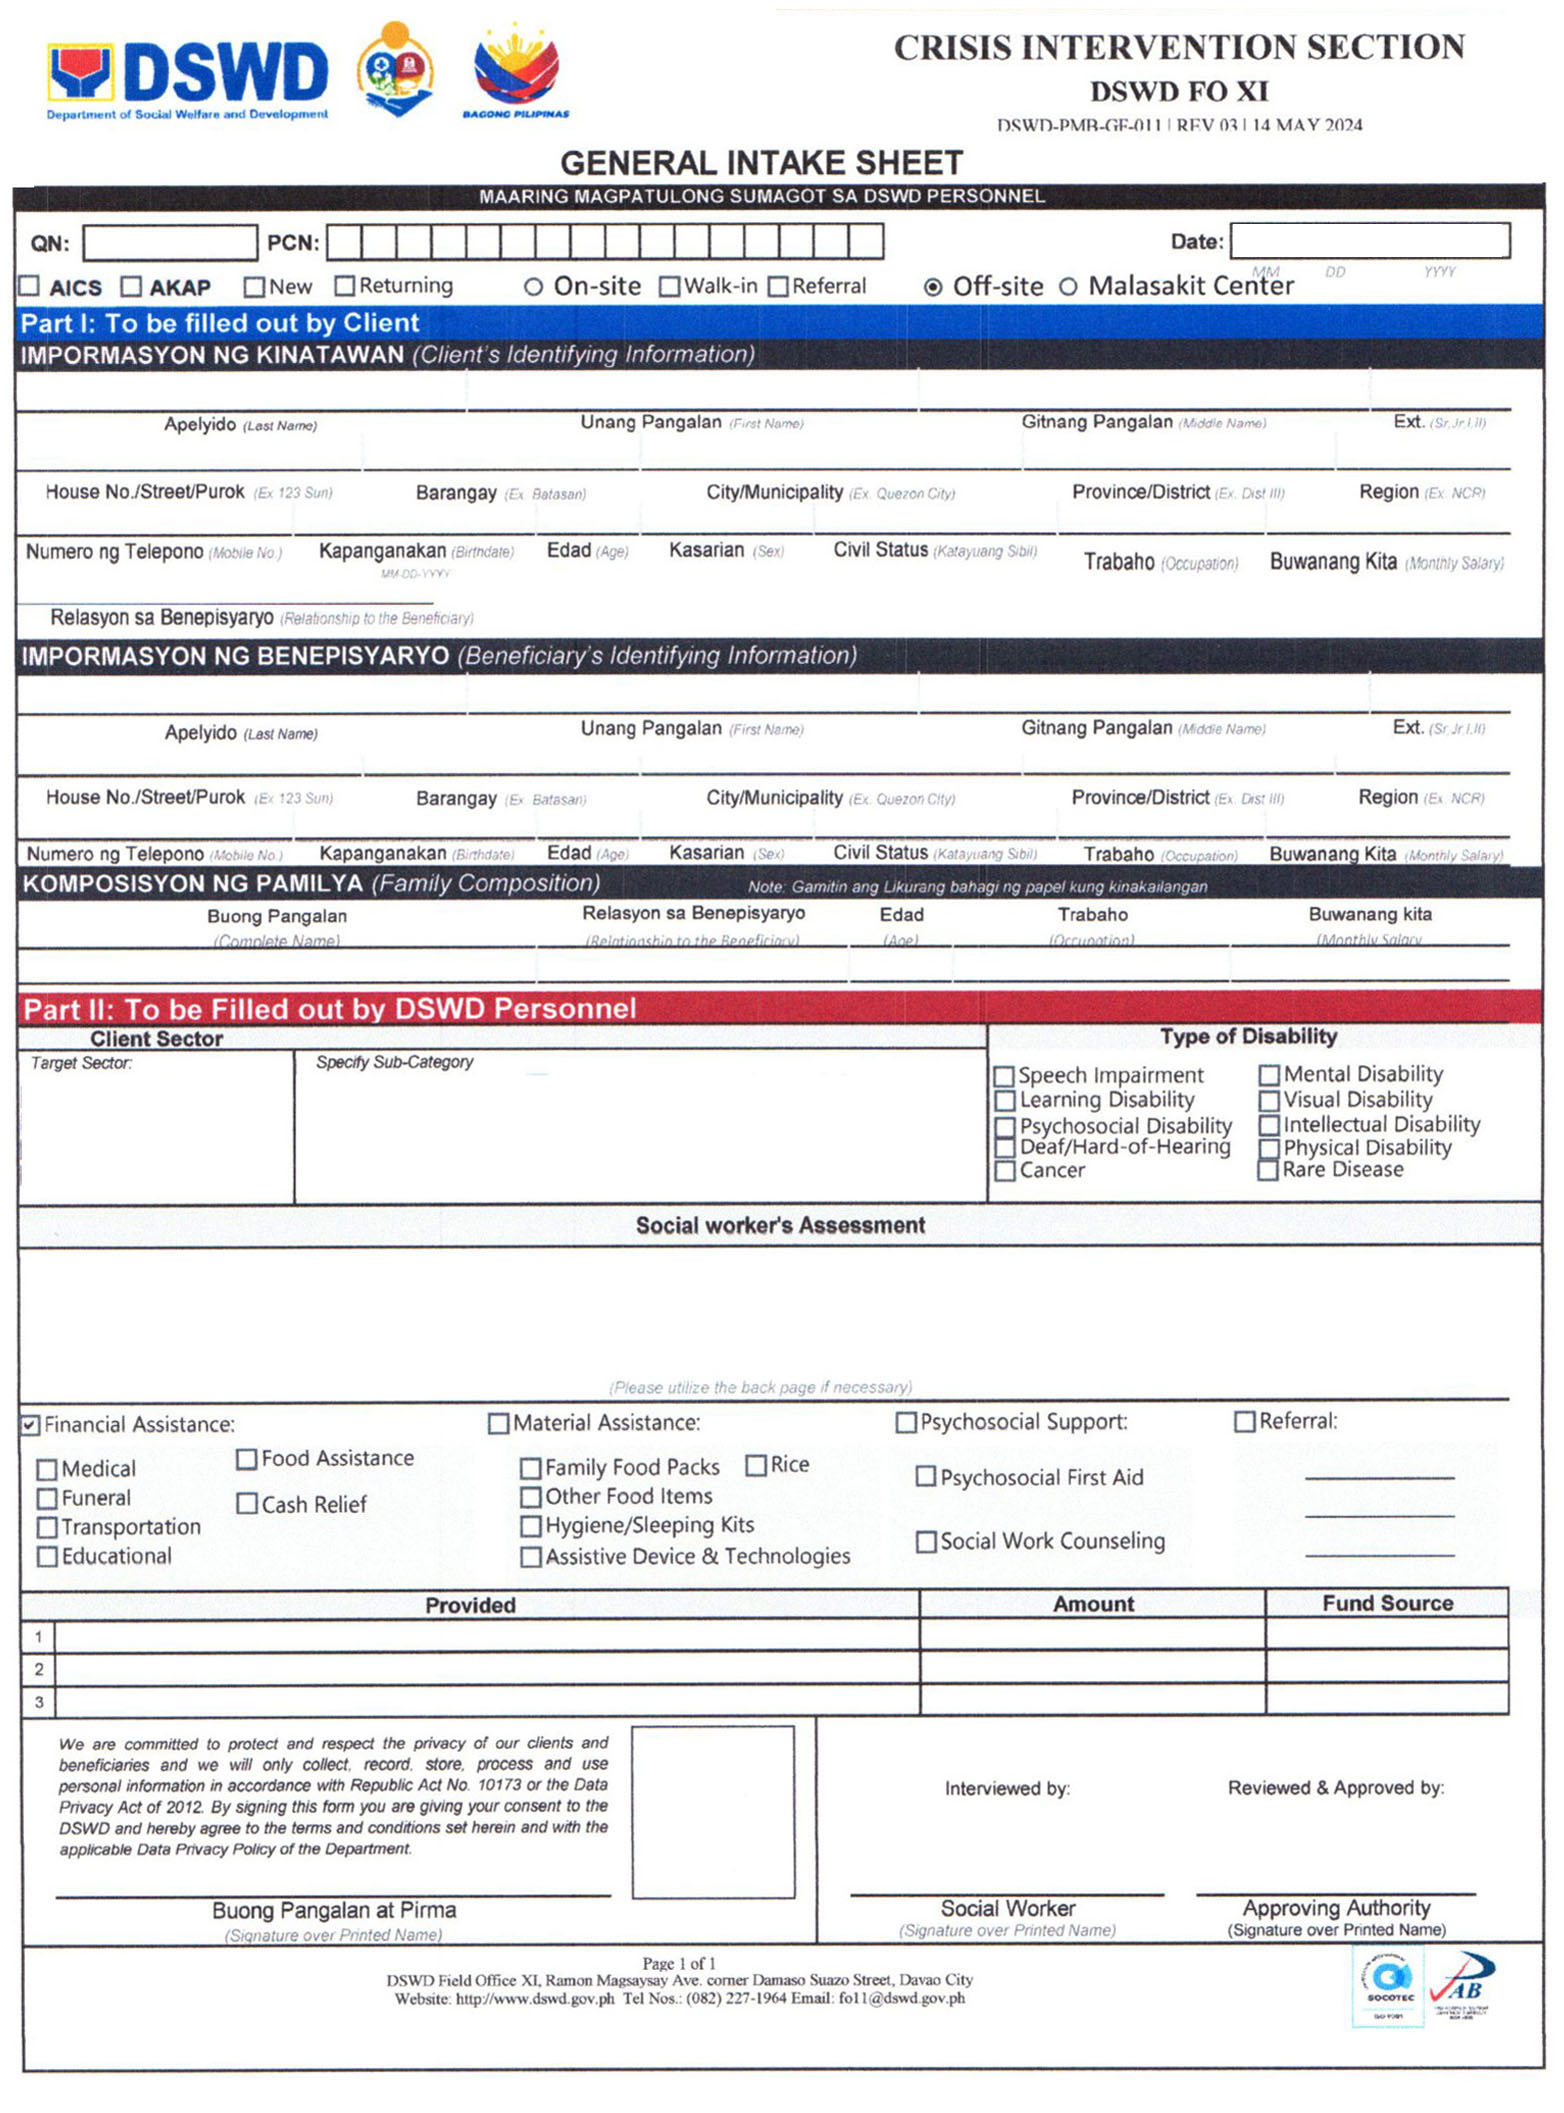
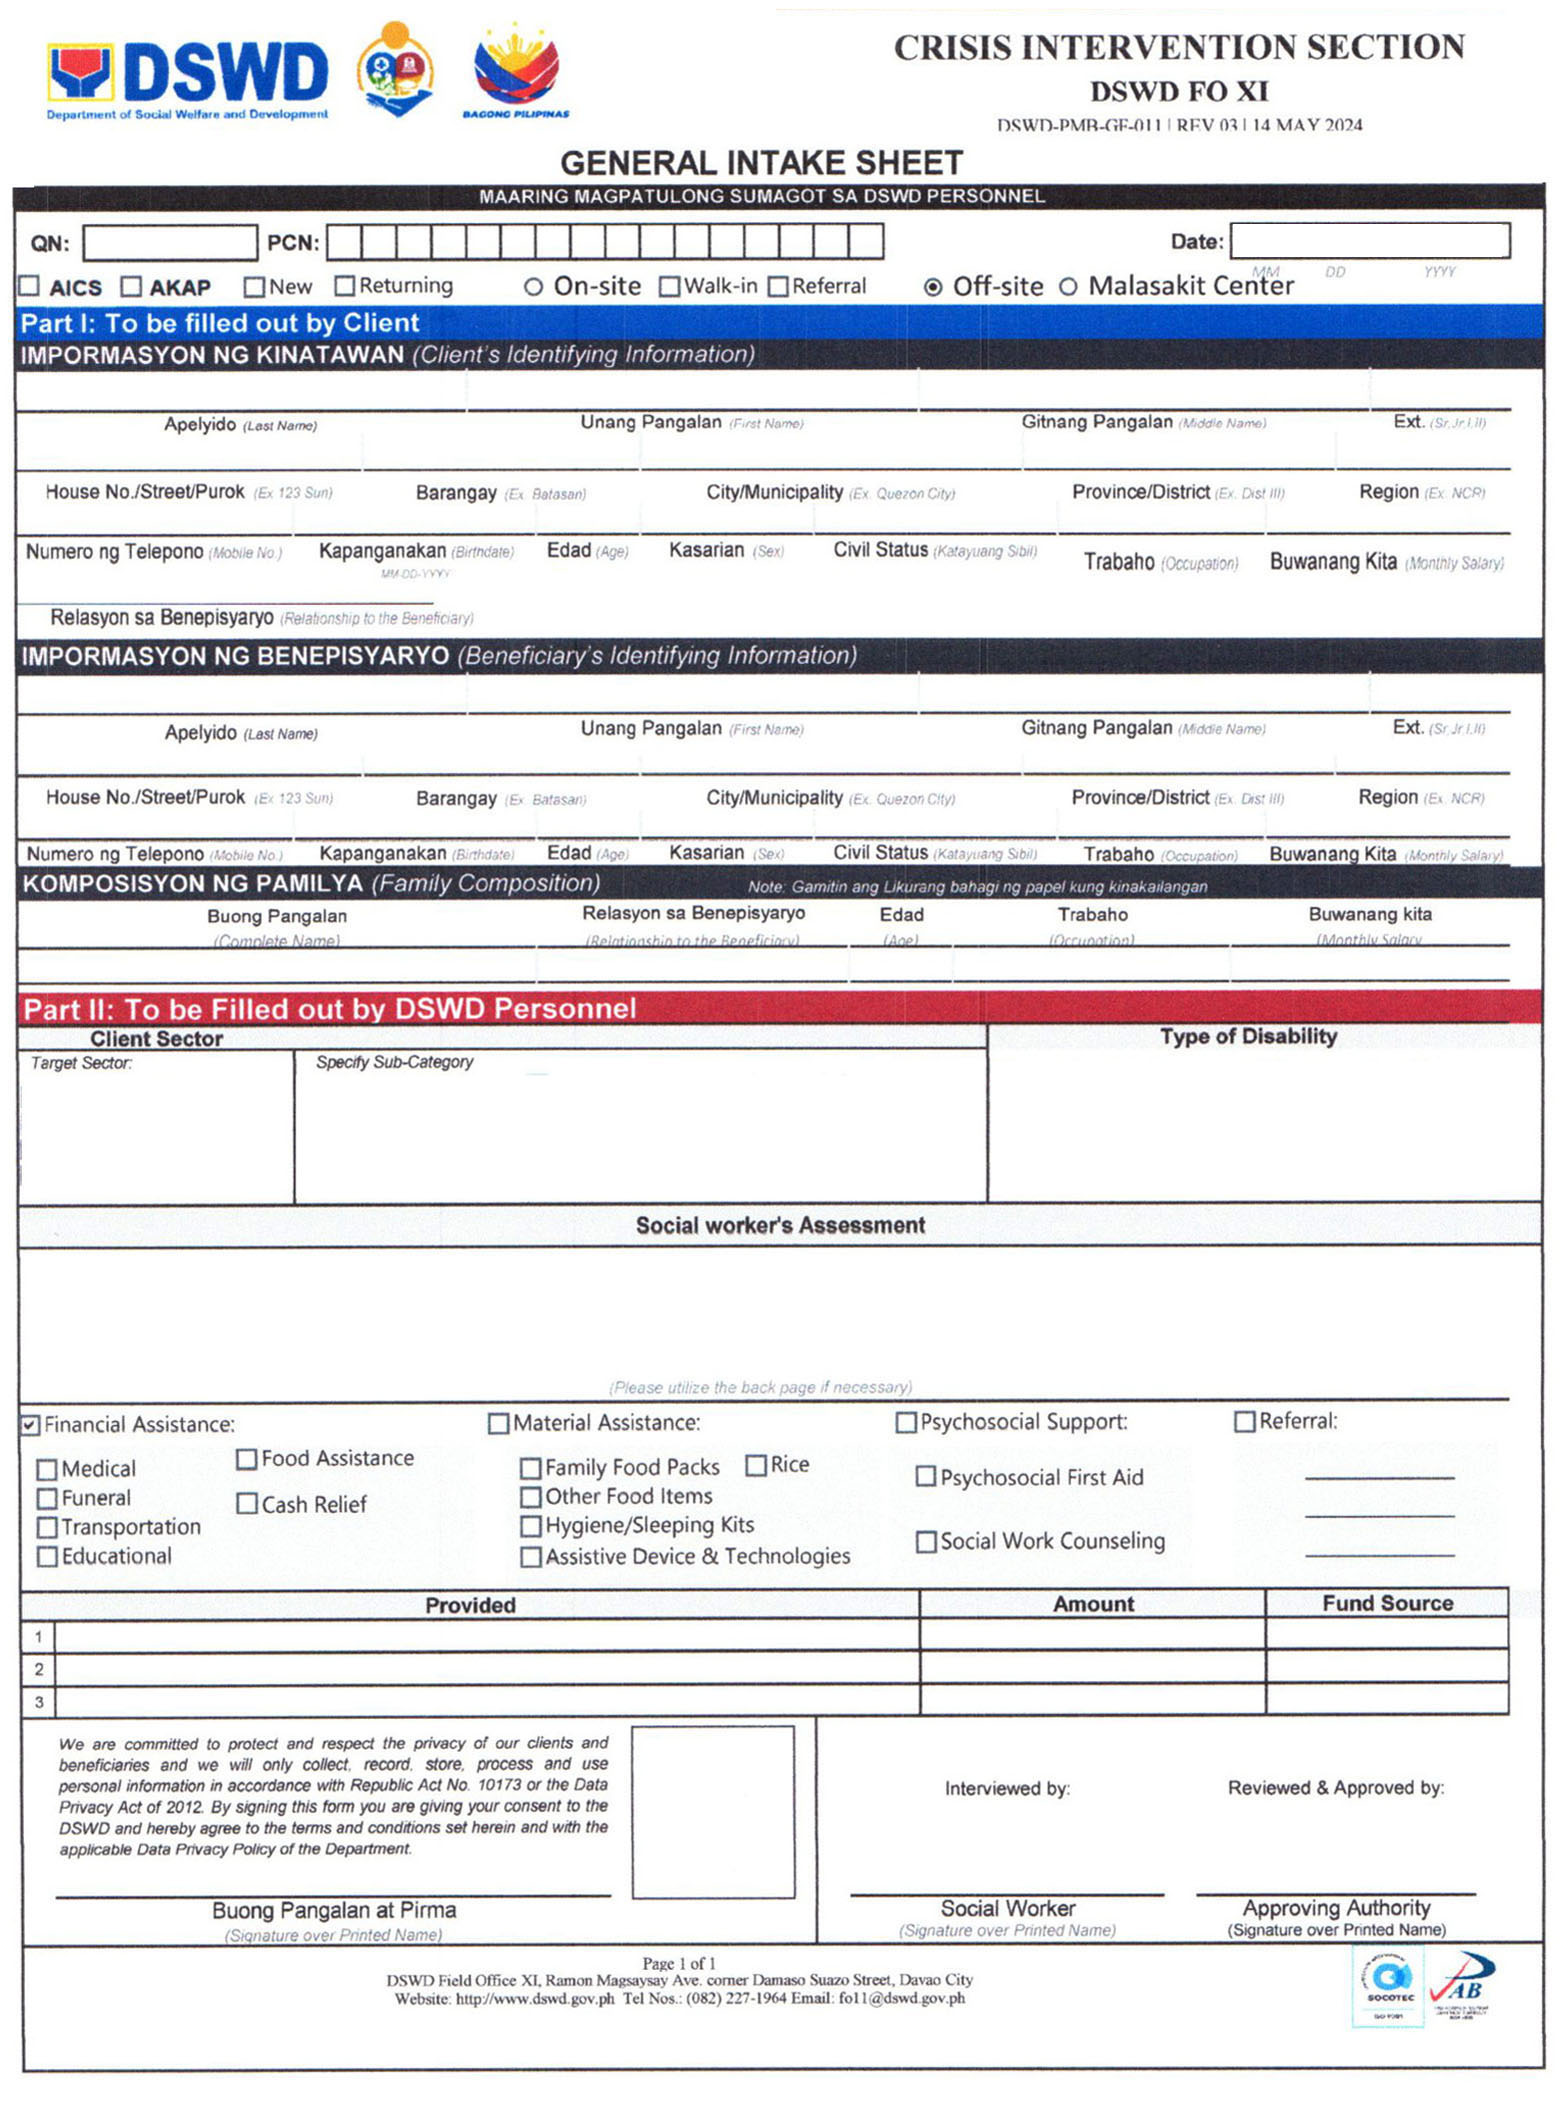
updated gis with disabilities

Changed region(s): [[0.6138, 0.4998, 0.9514, 0.5622]]

diff --git a/app/Http/Controllers/PayrollClientController.php b/app/Http/Controllers/PayrollClientController.php
@@ -5,6 +5,7 @@ namespace App\Http\Controllers;
 use App\Models\AicsClient;
 use App\Models\AicsType;
 use App\Models\Category;
+use App\Models\Disabilites;
 use App\Models\Payroll;
 use App\Models\PayrollClient;
 use App\Models\Subcategory;
@@ -109,6 +110,8 @@ class PayrollClientController extends Controller
         $aics_client_ids = PayrollClient::where('payroll_id', $id)->withTrashed()->offset(($page - 1) * 10)->limit(10)->pluck('aics_client_id');
         $payroll = Payroll::with("aics_type", "aics_subtype")->findOrFail($id);
         $categories  = Category::all()->pluck("category");
+        $disabilities = Disabilites::all()->pluck("disability");
+    
         $subcategories  = Subcategory::orderByRaw("
         CASE 
         WHEN subcategory = 'Minimum Wage Earner' THEN 1 
@@ -129,6 +132,7 @@ class PayrollClientController extends Controller
             return $x[0];
         });
 
+       
         $clients =  AicsClient::withTrashed()->with([
             "psgc",
             "aics_type",
@@ -143,6 +147,8 @@ class PayrollClientController extends Controller
                 $join->on("aics_clients.id", "=", "payroll_clients.aics_client_id")->where('payroll_id', $id);
             })
             ->get();
+
+       
 
         if ($clients) {
 
@@ -159,6 +165,8 @@ class PayrollClientController extends Controller
                     "subcategories" =>  compact('shortSubcategories', 'longSubcategories'),
                     "assistance_options" => $assistance_options,
                     "assistance_type_subcategory" => $payroll->aics_subtype ? $payroll->aics_subtype->name : "Daily Consumption and Other Needs",
+                    "disabilities"=>  $disabilities,
+    
                 ]
             );
 

diff --git a/resources/views/pdf/gis_many.blade.php b/resources/views/pdf/gis_many.blade.php
@@ -29,7 +29,7 @@
             line-height: 0.8;
             color: black;
             text-transform: uppercase;
-            /* border: solid red 1px;*/
+        
         }
 
 
@@ -194,20 +194,20 @@
 
 
             </div>
-            <!--foreach ($subcategories as $index_sub => $subcategory)
-                <div style="display:inline-block; margin-top:-3pt; width:75pt; ">
-                    <input type="checkbox" name="" id="" class="custom-checkbox"
-                        if (isset($aics_beneficiary['subcategory'])) if ($subcategory == $aics_beneficiary['subcategory']['subcategory'])
-                     checked endif
-                        endif>
-                     $subcategory }}
-                    if ($subcategory == 'Others')
-                        if ($aics_beneficiary['subcategory_others'])
-                            :  $aics_beneficiary['subcategory_others'] }}
-                        endif
-                    endif
-                </div>
-            endforeach-->
+            
+        </div>
+
+        <div class="data-textbox"  style=" width:200pt; top:370pt; left:360pt;  text-align:left; height:80pt;  font-size:7pt; font-weight:normal; text-transform:none; ">
+           
+            @foreach ($disabilities as $disability)
+            <div style="display:inline-block; margin-top:-2pt; width:120px;">
+                <input type="checkbox" name="" id="" class="custom-checkbox"
+                    @if (isset($aics_beneficiary['disabilities'])) @if (in_array($disability, json_decode($aics_beneficiary["disabilities"]) )) checked @endif @endif>
+                {{ $disability }}
+            </div>
+        @endforeach
+
+
         </div>
 
 

diff --git a/app/Http/Controllers/AicsClientController.php b/app/Http/Controllers/AicsClientController.php
@@ -19,6 +19,7 @@ use Maatwebsite\Excel\Facades\Excel;
 use Illuminate\Support\Facades\Storage;
 use Illuminate\Support\Str;
 use App\Models\DirtyList;
+use App\Models\Disabilites;
 use App\Models\Subcategory;
 use Barryvdh\DomPDF\Facade\Pdf;
 use Illuminate\Support\Facades\Auth;
@@ -286,6 +287,9 @@ class AicsClientController extends Controller
             return $x[0];
         });
 
+        $disabilities = Disabilites::all()->pluck("disability");
+    
+
         if ($client) {
             $pdf = Pdf::loadView('pdf.gis_many', [
                 "aics_beneficiaries" =>  $client->toArray(),
@@ -295,7 +299,8 @@ class AicsClientController extends Controller
                 "subcategories" =>  compact('shortSubcategories', 'longSubcategories'),
                 "assistance_options" => $assistance_options,
                 "assistance_type_subcategory" => $payroll->aics_subtype ? $payroll->aics_subtype->name : "Daily Consumption and Other Needs",
-
+                "disabilities"=>  $disabilities,
+    
             ]);
             return $pdf->stream('gis.pdf');
         }
